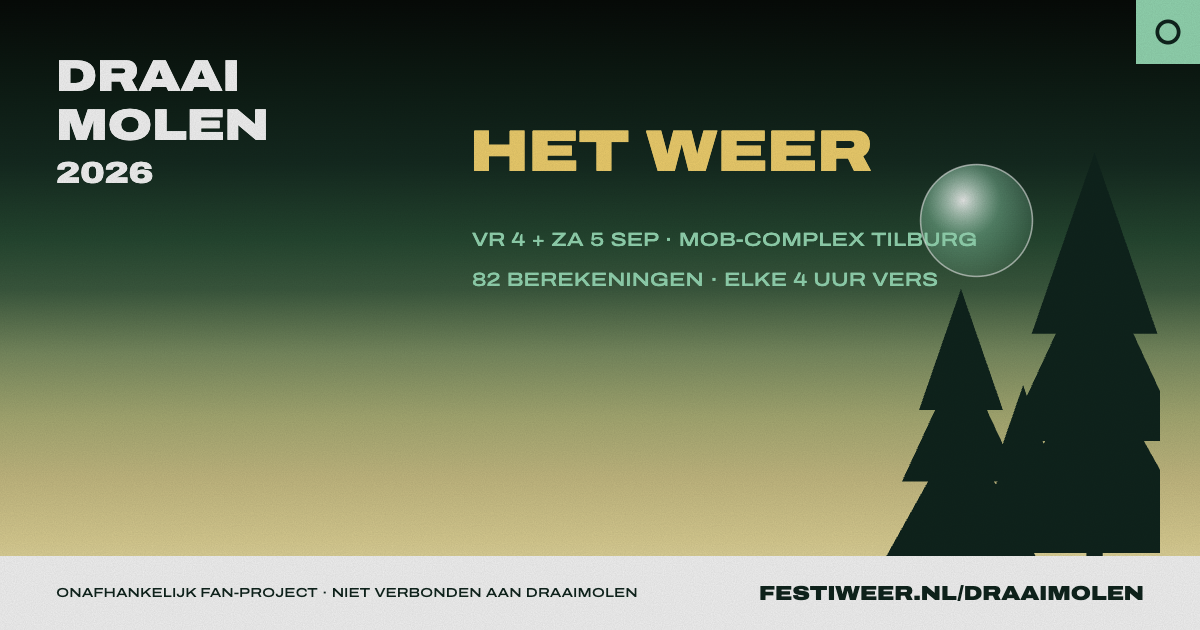
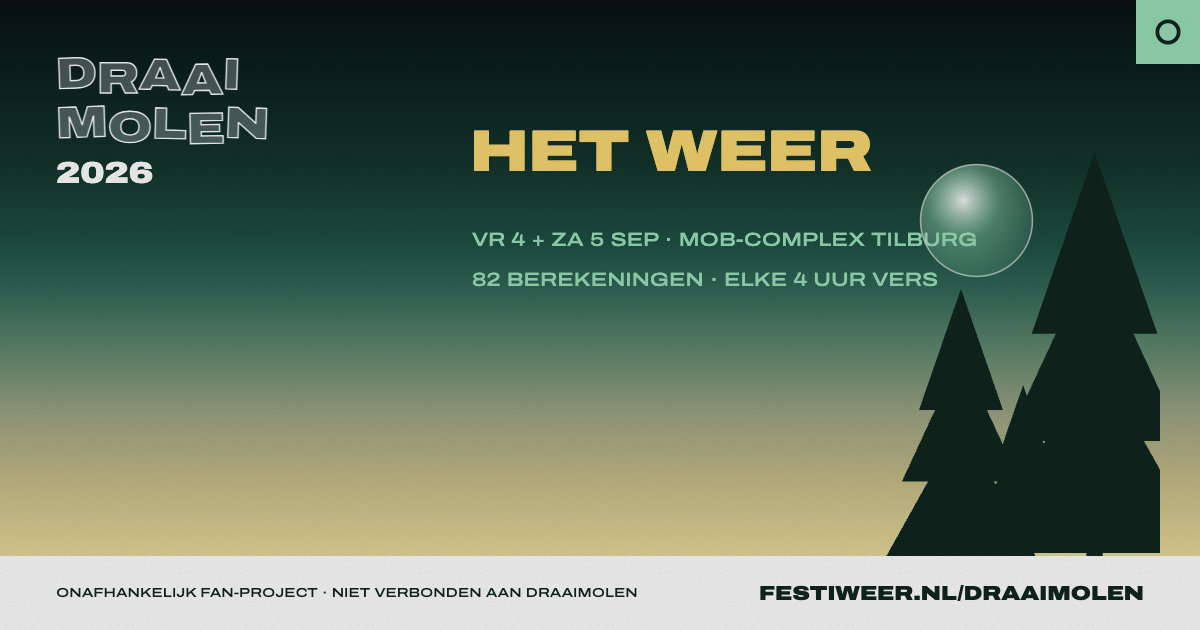
Draaimolen-thema op de echte campagne + eigen festiweer-landing
- huisstijl-referenties verzameld van draaimolen.nu en de campagnebeelden
  (lokaal in reference/, gitignored): teal-groen met goudgele streaks, glazen
  orbs in het dennenbos, Druk Wide in outline met verspringende letters
- thema geschoven van bosgroen naar campagne-teal; wordmark DRAAI/MOLEN nu in
  outline met per-letter jitter (poster, story-canvas en og)
- landingspagina losgetrokken van de Lowlands-look: eigen meteogram-identiteit
  (kaartpapier met raster, IBM Plex Mono + Bricolage Grotesque, uitwaaierende
  ensemble-lijnen met blauwe mediaan); festivalkaarten dragen elk de
  display-font van het festival zelf via kaart.naamStijl in de editie-config

Changed region(s): [[0.0308, 0.0905, 0.2467, 0.2413]]

diff --git a/scripts/build-site.ts b/scripts/build-site.ts
@@ -61,13 +61,41 @@ async function bouwFestival(editie: Editie) {
   console.log(`site/${editie.slug}/ gebouwd`);
 }
 
+// De eigen festiweer-identiteit: een meteogram. Kaartpapier met fijn raster,
+// mono-labels en een bundel ensemble-lijnen die naar rechts uitwaaiert (de
+// onzekerheid groeit) met één blauwe mediaan. De festivalkaarten dragen elk
+// de display-font en gradient van het festival zelf.
+function ensembleLijnen(): string {
+  let seed = 20260905;
+  const rnd = () => ((seed = (seed * 1664525 + 1013904223) >>> 0) / 2 ** 32);
+  const lijn = (dikte: number, kleur: string, alfa: number) => {
+    let y = 110, drift = (rnd() - 0.5) * 2;
+    let pts = `-4,110`;
+    for (let x = 40; x <= 1240; x += 40) {
+      drift += (rnd() - 0.5) * 2.4;
+      y += drift * (x / 1240) * 2.6;
+      y = Math.max(26, Math.min(196, y));
+      pts += ` ${x},${Math.round(y * 10) / 10}`;
+    }
+    return `<polyline points="${pts}" fill="none" stroke="${kleur}" stroke-opacity="${alfa}" stroke-width="${dikte}" stroke-linejoin="round"/>`;
+  };
+  const lijnen: string[] = [];
+  for (let i = 0; i < 19; i++) lijnen.push(lijn(1, '#1C2620', 0.15));
+  lijnen.push(lijn(2.2, '#2456D6', 0.85));
+  return `<svg class="ensemble" viewBox="0 0 1240 220" preserveAspectRatio="none" aria-hidden="true">${lijnen.join('')}</svg>`;
+}
+
 function landing(edities: Editie[]): string {
   const kaarten = edities.map((e) => `
-  <a class="kaart" href="${e.slug}/" style="--kaart-gradient: ${e.kaart.gradient}; --kaart-tekst: ${e.kaart.tekst}; --kaart-accent: ${e.kaart.accent};">
+  <a class="kaart kaart-${e.slug}" href="${e.slug}/">
     <span class="naam">${e.naam.toUpperCase()}</span>
     <span class="meta">${e.periode} · ${e.plaats.toUpperCase()}</span>
     <span class="pijl">NAAR DE VERWACHTING &gt;</span>
   </a>`).join('\n');
+  const kaartStijlen = edities.map((e) => `
+  .kaart-${e.slug} { background: ${e.kaart.gradient}; color: ${e.kaart.tekst}; }
+  .kaart-${e.slug} .naam { ${e.kaart.naamStijl} }
+  .kaart-${e.slug} .pijl { color: ${e.kaart.accent}; }`).join('\n');
 
   return `<!doctype html>
 <html lang="nl">
@@ -82,27 +110,41 @@ ${FAVICON}
 <meta property="og:url" content="https://festiweer.nl/">
 <link rel="preconnect" href="https://fonts.googleapis.com">
 <link rel="preconnect" href="https://fonts.gstatic.com" crossorigin>
-<link href="https://fonts.googleapis.com/css2?family=Silkscreen:wght@400;700&family=Schibsted+Grotesk:ital,wght@0,400;0,500;1,400&display=swap" rel="stylesheet">
+<link href="https://fonts.googleapis.com/css2?family=Bricolage+Grotesque:opsz,wght@12..96,700&family=IBM+Plex+Mono:wght@400;600&family=Silkscreen:wght@700&family=Archivo:wdth,wght@125,900&display=swap" rel="stylesheet">
 <style>
   * { box-sizing: border-box; }
-  body { margin: 0; min-height: 100vh; background: #14101F; color: #F4EBDA; font-family: 'Schibsted Grotesk', sans-serif; display: flex; flex-direction: column; align-items: center; padding: 9vh 20px 40px; }
-  .merk { font-family: 'Silkscreen', monospace; font-weight: 700; font-size: clamp(30px, 6.5vw, 54px); letter-spacing: 2px; }
-  .sub { margin-top: 10px; font-size: 15px; color: rgba(244,235,218,0.75); text-align: center; }
-  .kaarten { margin-top: 7vh; display: flex; flex-direction: column; gap: 18px; width: 100%; max-width: 560px; }
-  .kaart { display: flex; flex-direction: column; gap: 7px; padding: 26px 26px 22px; text-decoration: none; box-shadow: 0 10px 34px rgba(0,0,0,0.4); background: var(--kaart-gradient); color: var(--kaart-tekst); }
-  .kaart .naam { font-family: 'Silkscreen', monospace; font-weight: 700; font-size: 26px; letter-spacing: 1px; }
-  .kaart .meta { font-family: 'Silkscreen', monospace; font-weight: 400; font-size: 10px; letter-spacing: 1px; opacity: 0.9; }
-  .kaart .pijl { margin-top: 12px; font-family: 'Silkscreen', monospace; font-weight: 700; font-size: 10px; color: var(--kaart-accent); }
+  body {
+    margin: 0; min-height: 100vh; background: #F3F0E6; color: #1C2620;
+    font-family: 'IBM Plex Mono', monospace;
+    background-image:
+      linear-gradient(rgba(28,38,32,0.05) 1px, transparent 1px),
+      linear-gradient(90deg, rgba(28,38,32,0.05) 1px, transparent 1px);
+    background-size: 44px 44px;
+    display: flex; flex-direction: column; align-items: center; padding: 0 20px 44px;
+  }
+  header { position: relative; width: 100%; max-width: 640px; padding: 12vh 0 30px; }
+  .ensemble { position: absolute; left: 50%; top: 0; transform: translateX(-50%); width: 120vw; max-width: 1240px; height: 220px; pointer-events: none; }
+  h1 { position: relative; margin: 0; font-family: 'Bricolage Grotesque', sans-serif; font-weight: 700; font-size: clamp(44px, 9vw, 72px); letter-spacing: -0.02em; line-height: 1; }
+  h1 b { font-weight: 700; color: #2456D6; }
+  .sub { position: relative; margin-top: 14px; font-size: 13px; line-height: 1.7; color: rgba(28,38,32,0.78); max-width: 46ch; }
+  .kaarten { display: flex; flex-direction: column; gap: 16px; width: 100%; max-width: 640px; }
+  .kaart { display: flex; flex-direction: column; gap: 8px; padding: 24px 24px 20px; text-decoration: none; border: 1px solid rgba(28,38,32,0.3); box-shadow: 4px 4px 0 rgba(28,38,32,0.18); }
+  .kaart .meta { font-size: 11px; letter-spacing: 0.5px; opacity: 0.92; }
+  .kaart .pijl { margin-top: 14px; font-weight: 600; font-size: 11px; letter-spacing: 0.5px; }
   .kaart:hover .pijl { text-decoration: underline; }
-  footer { margin-top: auto; padding-top: 8vh; font-size: 12px; color: rgba(244,235,218,0.55); text-align: center; line-height: 1.7; max-width: 560px; }
+${kaartStijlen}
+  footer { margin-top: auto; padding-top: 9vh; font-size: 11px; color: rgba(28,38,32,0.55); text-align: center; line-height: 1.8; max-width: 640px; }
 </style>
 </head>
 <body>
-  <div class="merk">FESTIWEER</div>
-  <div class="sub">Festivalweer uit de ensembles: tientallen weerberekeningen, elke 4 uur ververst.</div>
+  <header>
+    ${ensembleLijnen()}
+    <h1>festi<b>weer</b></h1>
+    <div class="sub">Festivalweer uit de ensembles: tientallen weerberekeningen per festival, elke 4 uur ververst, in de designtaal van het festival zelf.</div>
+  </header>
   <div class="kaarten">${kaarten}
   </div>
-  <footer>Onafhankelijk fan-project, niet verbonden aan de festivals of hun organisaties. Modeldata via Open-Meteo (ECMWF, GFS, KNMI Harmonie).</footer>
+  <footer>Onafhankelijk fan-project, niet verbonden aan de festivals of hun organisaties.<br>Modeldata via Open-Meteo (ECMWF, GFS, KNMI Harmonie).</footer>
 </body>
 </html>
 `;

diff --git a/festivals/draaimolen/theme.css b/festivals/draaimolen/theme.css
@@ -3,28 +3,39 @@
    Expanded als vrije stand-in voor Druk Wide) met Inter als bodytekst.
    Vult de semantische slots van shared/poster.css in. */
 :root {
-  --nacht: #060A07;
+  --nacht: #071110;
   --licht: #EEEEEE;       /* gebroken wit van draaimolen.nu */
-  --donker: #0F231C;      /* diep bosgroen */
+  --donker: #0E2B26;      /* teal-zwartgroen uit de campagne */
   --accent: #8FD0AC;      /* chrome-mint van het logo */
-  --accent2: #E8C96A;     /* olijfgoud uit de campagne-gradient */
-  --signaal: #C2472E;     /* aardse rood-oranje uit de orb-beelden */
-  --band: #2E4A3A;
-  --ink: #17251D;
+  --accent2: #E8C96A;     /* goudgele streaks uit het campagnebeeld */
+  --signaal: #C2472E;     /* rood uit de orb-beelden */
+  --band: #2E4A3F;
+  --ink: #16261F;
   --f-pix: 'Archivo', 'Arial Black', sans-serif;
   --f-label: 'Inter', Arial, sans-serif;
   --f-body: 'Inter', Arial, sans-serif;
   --dagkolommen: 2;
   --gradient: linear-gradient(180deg,
-    #060A07 0%, #0C1912 11%, #14291F 24%, #24452F 35%, #3A573D 42%,
-    #75875D 50%, #A1A56F 58%, #BFB57E 68%, #D4C88E 78%, #E2D8A3 88%, #EDE4B8 100%);
+    #071110 0%, #0C201C 11%, #123129 24%, #1C4A3E 35%, #2E6152 42%,
+    #5D8168 50%, #93997B 58%, #B7AF7E 68%, #D2C58B 78%, #E1D6A0 88%, #EDE4B6 100%);
 }
 
 /* Archivo als variabele font: overal de brede (Druk Wide-achtige) instantie */
 * { font-stretch: 125%; }
 
-/* het brede wordmark heeft minder korpsgrootte nodig dan LOW/LANDS */
+/* het brede wordmark heeft minder korpsgrootte nodig dan LOW/LANDS;
+   outline-letters met per-letter jitter, zoals op de campagnebanner */
 .merk { font-size: 30px; letter-spacing: 0; line-height: 1.12; }
+.merk .rij i {
+  display: inline-block; font-style: normal;
+  -webkit-text-stroke: 1px var(--licht);
+  color: color-mix(in srgb, var(--licht) 26%, transparent);
+}
+.merk .rij i:nth-child(5n+1) { transform: translateY(-2px) rotate(-2deg); }
+.merk .rij i:nth-child(5n+2) { transform: translateY(1.5px); }
+.merk .rij i:nth-child(5n+3) { transform: translateY(-1px) rotate(1.5deg); }
+.merk .rij i:nth-child(5n+4) { transform: translateY(2.5px) rotate(-1deg); }
+.merk .rij i:nth-child(5n+5) { transform: translateY(-1.5px) rotate(2deg); }
 .merk .jaar { font-size: 21px; margin-top: 5px; }
 .kop-info .onderwerp { font-size: 14px; }
 .kop-info .regels { font-size: 9px; letter-spacing: 0.5px; }

diff --git a/festivals/draaimolen/og.html b/festivals/draaimolen/og.html
@@ -12,11 +12,17 @@
     width: 1200px; height: 630px; overflow: hidden; position: relative;
     font-family: 'Archivo', 'Arial Black', sans-serif;
     background: linear-gradient(180deg,
-      #060A07 0%, #0C1912 12%, #14291F 26%, #24452F 38%, #3A573D 46%,
-      #75875D 56%, #A1A56F 66%, #BFB57E 76%, #D4C88E 86%, #E2D8A3 94%, #EDE4B8 100%);
+      #071110 0%, #0C201C 12%, #123129 26%, #1C4A3E 38%, #2E6152 46%,
+      #5D8168 56%, #93997B 66%, #B7AF7E 76%, #D2C58B 86%, #E1D6A0 94%, #EDE4B6 100%);
   }
   .merk { position: absolute; left: 56px; top: 52px; font-weight: 900; font-size: 44px; line-height: 1.12; letter-spacing: 0; color: #EEEEEE; }
   .merk span { display: block; }
+  .merk .rij i { display: inline-block; font-style: normal; -webkit-text-stroke: 1.4px #EEEEEE; color: rgba(238,238,238,0.26); }
+  .merk .rij i:nth-child(5n+1) { transform: translateY(-3px) rotate(-2deg); }
+  .merk .rij i:nth-child(5n+2) { transform: translateY(2px); }
+  .merk .rij i:nth-child(5n+3) { transform: translateY(-1.5px) rotate(1.5deg); }
+  .merk .rij i:nth-child(5n+4) { transform: translateY(3.5px) rotate(-1deg); }
+  .merk .rij i:nth-child(5n+5) { transform: translateY(-2px) rotate(2deg); }
   .merk .jaar { font-size: 30px; margin-top: 6px; }
   .onderwerp { position: absolute; left: 470px; top: 120px; font-weight: 900; font-size: 58px; color: #E8C96A; }
   .regels { position: absolute; left: 472px; top: 220px; font-weight: 500; font-size: 19px; color: #8FD0AC; line-height: 2.1; }
@@ -29,7 +35,7 @@
 </style>
 </head>
 <body>
-  <div class="merk"><span>DRAAI</span><span>MOLEN</span><span class="jaar">2026</span></div>
+  <div class="merk"><span class="rij"><i>D</i><i>R</i><i>A</i><i>A</i><i>I</i></span><span class="rij"><i>M</i><i>O</i><i>L</i><i>E</i><i>N</i></span><span class="jaar">2026</span></div>
   <div class="onderwerp">HET WEER</div>
   <div class="regels">VR 4 + ZA 5 SEP · MOB-COMPLEX TILBURG<br>82 BEREKENINGEN · ELKE 4 UUR VERS</div>
   <div class="hoeksticker"><svg width="30" height="30" viewBox="0 0 24 24"><circle cx="12" cy="12" r="8.5" fill="none" stroke="#0F231C" stroke-width="3"/></svg></div>

diff --git a/festivals/draaimolen/theme.js b/festivals/draaimolen/theme.js
@@ -3,7 +3,7 @@
 // gradient en het brede DRAAI/MOLEN-wordmark (Archivo Expanded).
 // Geladen vóór poster.js/share.js; die lezen window.FESTIVAL.
 window.FESTIVAL = {
-  gradient: [[0, '#060A07'], [0.11, '#0C1912'], [0.24, '#14291F'], [0.35, '#24452F'], [0.42, '#3A573D'], [0.50, '#75875D'], [0.58, '#A1A56F'], [0.68, '#BFB57E'], [0.78, '#D4C88E'], [0.88, '#E2D8A3'], [1, '#EDE4B8']],
+  gradient: [[0, '#071110'], [0.11, '#0C201C'], [0.24, '#123129'], [0.35, '#1C4A3E'], [0.42, '#2E6152'], [0.50, '#5D8168'], [0.58, '#93997B'], [0.68, '#B7AF7E'], [0.78, '#D2C58B'], [0.88, '#E1D6A0'], [1, '#EDE4B6']],
   lichtVanaf: 0.56,
 
   fontLoads: ["900 100px Archivo", "500 40px Archivo", "700 36px Inter", "italic 500 27px Inter"],
@@ -77,12 +77,26 @@ window.FESTIVAL = {
     ctx.stroke();
   },
 
+  // outline-letters met per-letter jitter, zoals op de campagnebanner
   wordmarkCanvas(ctx, C, x, y) {
-    ctx.fillStyle = C('--licht');
     ctx.textAlign = 'left';
-    this.displayFont(ctx, 60, 900);
-    ctx.fillText('DRAAI', x, y - 10);
-    ctx.fillText('MOLEN', x, y + 56);
+    const jitter = [-4, 3, -2, 5, -3];
+    const rij = (tekst, y0) => {
+      this.displayFont(ctx, 60, 900);
+      let cx = x;
+      [...tekst].forEach((letter, i) => {
+        const dy = jitter[i % jitter.length];
+        ctx.fillStyle = 'rgba(238,238,238,0.26)';
+        ctx.strokeStyle = C('--licht');
+        ctx.lineWidth = 2;
+        ctx.fillText(letter, cx, y0 + dy);
+        ctx.strokeText(letter, cx, y0 + dy);
+        cx += ctx.measureText(letter).width + 3;
+      });
+    };
+    rij('DRAAI', y - 10);
+    rij('MOLEN', y + 56);
+    ctx.fillStyle = C('--licht');
     this.displayFont(ctx, 38, 900);
     ctx.fillText('2026', x, y + 118);
   },

diff --git a/scripts/lib/editie.ts b/scripts/lib/editie.ts
@@ -20,7 +20,9 @@ export type EditieBasis = {
   kleinRollen: [number, string][];     // reisrollen in "komen en gaan": [index, 'OPBOUW']
   laatsteDagZin?: string;              // bijzin voor een natte laatste dag ('bij het afbreken'); weglaten = geen zin
   normaal: { temp: number; label: string }; // referentielijn in de temperatuurgrafiek
-  kaart: { gradient: string; tekst: string; accent: string }; // festivalkaart op de landingspagina
+  // festivalkaart op de landingspagina; naamStijl = CSS voor de festivalnaam
+  // in de eigen display-font van het festival
+  kaart: { gradient: string; tekst: string; accent: string; naamStijl: string };
 };
 
 export type Editie = EditieBasis & { datums: string[]; days: string[]; dagnamen: string[] };

diff --git a/festivals/lowlands/editie.ts b/festivals/lowlands/editie.ts
@@ -18,5 +18,10 @@ export const EDITIE = maakEditie({
   kleinRollen: [[0, 'OPBOUW'], [1, 'AANKOMST'], [5, 'NAAR HUIS']],
   laatsteDagZin: 'bij het afbreken',
   normaal: { temp: 22, label: 'normaal eind augustus' },
-  kaart: { gradient: 'linear-gradient(135deg, #31255F 0%, #41549B 45%, #E5823A 100%)', tekst: '#F4EBDA', accent: '#F5C531' },
+  kaart: {
+    gradient: 'linear-gradient(135deg, #31255F 0%, #41549B 45%, #E5823A 100%)',
+    tekst: '#F4EBDA',
+    accent: '#F5C531',
+    naamStijl: "font-family: 'Silkscreen', monospace; font-weight: 700; font-size: 24px; letter-spacing: 1px;",
+  },
 });

diff --git a/festivals/draaimolen/editie.ts b/festivals/draaimolen/editie.ts
@@ -19,5 +19,10 @@ export const EDITIE = maakEditie({
   festivalIdx: [1, 2],
   kleinRollen: [[0, 'DAG ERVOOR'], [3, 'DE DAG ERNA']],
   normaal: { temp: 20, label: 'normaal begin september' },
-  kaart: { gradient: 'linear-gradient(135deg, #060A07 0%, #1E3D2F 45%, #C6BC85 100%)', tekst: '#EEEEEE', accent: '#E8C96A' },
+  kaart: {
+    gradient: 'linear-gradient(135deg, #071110 0%, #1C4A3E 45%, #D2C58B 100%)',
+    tekst: '#EEEEEE',
+    accent: '#E8C96A',
+    naamStijl: "font-family: 'Archivo', sans-serif; font-stretch: 125%; font-weight: 900; font-size: 22px;",
+  },
 });

diff --git a/festivals/draaimolen/poster.html b/festivals/draaimolen/poster.html
@@ -13,7 +13,7 @@
 <div class="page">
 
   <header class="kop">
-    <div class="merk"><span>DRAAI</span><span>MOLEN</span><span class="jaar">2026</span></div>
+    <div class="merk"><span class="rij"><i>D</i><i>R</i><i>A</i><i>A</i><i>I</i></span><span class="rij"><i>M</i><i>O</i><i>L</i><i>E</i><i>N</i></span><span class="jaar">2026</span></div>
     <div class="kop-info">
       <div class="onderwerp">HET WEER</div>
       <div class="regels">VR 4 + ZA 5 SEP<br>MOB-COMPLEX TILBURG<br>ELKE 4 UUR VERS</div>
